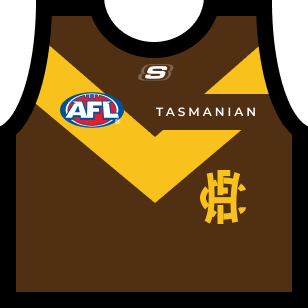
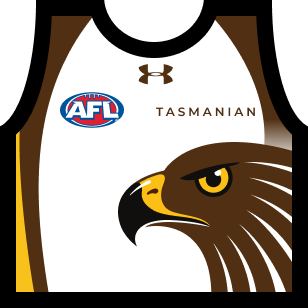
updated kits for 2026

diff --git a/docs/js/main.min.js b/docs/js/main.min.js
@@ -1,1 +1,1 @@
-function scroll(){$(window).on("scroll",function(){$(this).scrollTop()>=$(".c-fixture__round").offset().top-500?$(".js-scrollto-fixture").addClass("is-hidden"):$(".js-scrollto-fixture").removeClass("is-hidden")}),$(".js-scrollto-fixture").on("click",function(){$("html, body").animate({scrollTop:$(".js-game-pregame").offset().top-36},{duration:400,specialEasing:"easeInOut"})}),$(".c-fixture__game").each(function(){$(this).hasClass("c-fixture__game--in-progress")&&($(".js-scrollto-fixture").addClass("has-live"),$(".js-scrollto-fixture").on("click",function(){$("html, body").animate({scrollTop:$(".c-fixture__game--in-progress").offset().top-36},{duration:400,specialEasing:"easeInOut"})}))})}function dateTime(e){var t=new Date(e),s=t.getDate();return{day:function(e){var t=e.getDay();return 0==t?"Sunday":1==t?"Monday":2==t?"Tuesday":3==t?"Wednesday":4==t?"Thursday":5==t?"Friday":6==t?"Saturday":void 0}(t),month:function(e){var t=e.getMonth();return 0==t?"Jan":1==t?"Feb":2==t?"Mar":3==t?"Apr":4==t?"May":5==t?"Jun":6==t?"Jul":7==t?"Aug":8==t?"Sep":9==t?"Oct":10==t?"Nov":11==t?"Dec":void 0}(t),date:s,time:function(e){return e.getHours()+":"+("0"+e.getMinutes()).slice(-2)}(t)}}function finals(e,t){function s(e,s){var a=s.team_A,i=s.team_B,c=t[a.code],n=t[i.code],r=dateTime(s.match_start_date),d=e.children(".c-date"),o=e.children(".js-fixture-team-1"),l=e.children(".js-fixture-team-2"),_=e.children(".js-fixture-venue");"Pre Game"==s.match_status?(d.children(".c-date__day").text(r.day),d.children(".c-date__month").text(r.month),d.children(".c-date__date").text(r.date),d.children(".c-date__time").text(r.time)):"Full Time"==s.match_status?(e.addClass("full-time"),d.children(".c-date__day").text(r.day),d.children(".c-date__month").text(r.month),d.children(".c-date__date").text(r.date),d.children(".c-date__time").text("FT")):(e.addClass("live"),d.append('<span class="c-date__live">LIVE</span><span class="c-date__status">'+s.match_status+'</span><span class="c-date__played-time">'+s.match_time+"</span>")),o.children(".js-team-img").attr("src",c.kit.home),o.children(".js-team-text").text(c.name),"Pre Game"!==s.match_status&&o.children(".js-score-text").text("").append(a.goals+". "+a.behinds+'. <span class="c-fixture__score-total">'+a.score+"</span>"),null!==i.id&&(l.children(".js-team-img").attr("src",awayKit(n.kit,a.code)),l.children(".js-team-text").text(n.name)),"Pre Game"!==s.match_status&&l.children(".js-score-text").text("").append(i.goals+". "+i.behinds+'. <span class="c-fixture__score-total">'+i.score+"</span>"),_.text(s.venue.name)}function a(e,t){var s=e.team_A,a=e.team_B,i=t[s.code],c=t[a.code];return"post"==e.match_status_normalised&&s.score>a.score?{name:i.name,bg:i.pattern}:"post"==e.match_status_normalised&&a.score>s.score?{name:c.name,bg:c.pattern}:{name:"?"}}var i=e[8];$(".js-finals-series-year").text(e[0].season.year),$(".js-premiership-year").text(e[0].season.year),s($(".js-finals-qf1"),e[1]),s($(".js-finals-qf2"),e[2]),s($(".js-finals-ef1"),e[0]),s($(".js-finals-ef2"),e[3]),s($(".js-finals-sf1"),e[4]),s($(".js-finals-sf2"),e[5]),s($(".js-finals-pf1"),e[7]),s($(".js-finals-pf2"),e[6]),s($(".js-finals-gf"),i),$(".js-premiers-name").text(a(i,t).name),$(".js-premiers-bg").css({"background-image":"url("+a(i,t).bg+")","background-size":"50%","background-repeat":"repeat"})}function fixtureItem(e,t,s){var a=dateTime(e.match_start_date),i=e.match_status,c=e.team_A,n=e.team_B,r=t[c.code],d=t[n.code];"Pre Game"==i?$(".js-fixture .js-insert").before('<div class="c-fixture__game js-game-'+s+' js-game-pregame"><div class= "c-fixture__date c-date" ><span class="c-date__day">'+a.day+'</span><span class="c-date__month">'+a.month+'</span><span class="c-date__date">'+a.date+'</span><span class="c-date__time">'+a.time+'</span></div ><div class="c-fixture__team js-fixture-team-1"><img class="js-team-img" src="'+kitSwitcher(r.kit,c.code,n.code,c.code,s)+'" /><span class="js-team-text">'+r.name+'</span><span class="c-fixture__score js-score-text">-</span></div><div class="c-fixture__vs">vs</div><div class="c-fixture__team js-fixture-team-2"><img class="js-team-img" src="'+kitSwitcher(d.kit,n.code,n.code,c.code,s)+'" /><span class="js-team-text">'+d.name+'</span><span class="c-fixture__score js-score-text">-</span></div><div class="c-fixture__venue js-fixture-venue">'+e.venue.name+"</div></div>"):"Full Time"==i?$(".js-fixture .js-insert").before('<div class="c-fixture__game  js-game-'+s+' c-fixture__game--completed"><div class= "c-fixture__date c-date" ><span class="c-date__day">'+a.day+'</span><span class="c-date__month">'+a.month+'</span><span class="c-date__date">'+a.date+'</span><span class="c-date__time">FT</span></div ><div class="c-fixture__team js-fixture-team-1"><img class="js-team-img" src="'+r.kit.home+'" /><span class="js-team-text">'+r.name+'</span><span class="c-fixture__score js-score-text">'+c.goals+". "+c.behinds+'. <span class="c-fixture__score-total">'+c.score+'</span></span></div><div class="c-fixture__vs">vs</div><div class="c-fixture__team js-fixture-team-2"><img class="js-team-img" src="'+awayKit(d.kit,c.code)+'" /><span class="js-team-text">'+d.name+'</span><span class="c-fixture__score js-score-text">'+n.goals+". "+n.behinds+'. <span class="c-fixture__score-total">'+n.score+'</span></span></div><div class="c-fixture__venue js-fixture-venue">'+e.venue.name+"</div></div>"):$(".js-fixture .js-insert").before('<div class="c-fixture__game  js-game-'+s+' c-fixture__game--in-progress"><div class= "c-fixture__date c-date" ><span class="c-date__live">LIVE</span><span class="c-date__status">'+i+'</span><span class="c-date__time">'+e.match_time+'</span></div ><div class="c-fixture__team js-fixture-team-1"><img class="js-team-img" src="'+r.kit.home+'" /><span class="js-team-text">'+r.name+'</span><span class="c-fixture__score js-score-text">'+c.goals+". "+c.behinds+'. <span class="c-fixture__score-total">'+c.score+'</span></span></div><div class="c-fixture__vs">vs</div><div class="c-fixture__team js-fixture-team-2"><img class="js-team-img" src="'+awayKit(d.kit,c.code)+'" /><span class="js-team-text">'+d.name+'</span><span class="c-fixture__score js-score-text">'+n.goals+". "+n.behinds+'. <span class="c-fixture__score-total">'+n.score+'</span></span></div><div class="c-fixture__venue js-fixture-venue">'+e.venue.name+"</div></div>")}function kitSwitcher(e,t,s,a,i){return 14==i&"GEE"==t?e.special.wo:7==i?e.special.anzac:t==s?awayKit(e,a):e.home}function awayKit(e,t){return e.clash.teams.includes(t)?e.clash.kit:e.away}function ladderItem(e,t,s){$(".c-ladder__item-"+t+" div.c-ladder__team").children("span").text(s.name),$(".c-ladder__item-"+t+" div.c-ladder__team").children("img").attr("src",s.logo),$(".c-ladder__item-"+t+" div.c-ladder__played").text(e.stats.played),$(".c-ladder__item-"+t+" div.c-ladder__wins").text(e.stats.won),$(".c-ladder__item-"+t+" div.c-ladder__draws").text(e.stats.drawn),$(".c-ladder__item-"+t+" div.c-ladder__losses").text(e.stats.lost),$(".c-ladder__item-"+t+" div.c-ladder__points-for").text(e.stats.for),$(".c-ladder__item-"+t+" div.c-ladder__points-against").text(e.stats.against),$(".c-ladder__item-"+t+" div.c-ladder__percentage").text(e.stats.percentage),$(".c-ladder__item-"+t+" div.c-ladder__points").text(e.stats.points)}function roundCalc(e,t){for(i=0;i<t.length;i++){const s=t[i],a=new Date(s.start),c=new Date(s.end);if(a<e&&e<c)return s.round}}function dataFixture(e){$.getJSON("https://statsapi.foxsports.com.au/3.0/api/sports/afl/series/1/seasons/131/fixturesandresults.json?userkey=6B2F4717-A97C-49F6-8514-3600633439B9",function(t){$.getJSON("data/fixture.json",function(s){function a(e,t){var s=[];for(i=0;i<e.length;i++){const a=e[i];a.round.number==t&&(s.push(a),$(".js-fixture-round").text(a.round.name))}r(s,t)}function c(e){$(".js-game-"+e).remove()}function n(e,s){l=s,c(e),a(t,s)}function r(t,s){for(i=0;i<t.length;i++){fixtureItem(t[i],e,s)}}var d=new Date,o=roundCalc(d,s),l=o,_=$(".js-previous"),m=$(".js-next");a(t,o),_.on("click",function(){n(l,l-1)}),m.on("click",function(){n(l,l+1)})})})}function dataLadder(e){$.getJSON("https://statsapi.foxsports.com.au/3.0/api/sports/afl/series/1/seasons/131/ladder.json?userkey=6B2F4717-A97C-49F6-8514-3600633439B9",function(t){$(".c-ladder__round");for(i=0;i<t.teams.length;i++){const s=t.teams[i],a=e[s.code];ladderItem(s,i+1,a)}})}function data(){$.getJSON("data/clubs.json",function(e){dataLadder(e),dataFixture(e)})}function vertCenter(e,t){var s=e.parent().height();e.css({height:s+"px","line-height":s+"px"}),e.children(t).css({height:e.children(t).height(),"padding-top":(s-e.children(t).height())/2+"px","padding-bottom":(s-e.children(t).height())/2+"px"})}function clearStyles(e,t){e.attr("style",""),t.attr("style","")}data(),$(window).on("resize",function(){});
+function dateTime(e){var t=new Date(e),s=t.getDate();return{day:function(e){var t=e.getDay();return 0==t?"Sunday":1==t?"Monday":2==t?"Tuesday":3==t?"Wednesday":4==t?"Thursday":5==t?"Friday":6==t?"Saturday":void 0}(t),month:function(e){var t=e.getMonth();return 0==t?"Jan":1==t?"Feb":2==t?"Mar":3==t?"Apr":4==t?"May":5==t?"Jun":6==t?"Jul":7==t?"Aug":8==t?"Sep":9==t?"Oct":10==t?"Nov":11==t?"Dec":void 0}(t),date:s,time:function(e){return e.getHours()+":"+("0"+e.getMinutes()).slice(-2)}(t)}}function finals(e,t){function s(e,s){var a=s.team_A,i=s.team_B,c=t[a.code],n=t[i.code],r=dateTime(s.match_start_date),d=e.children(".c-date"),o=e.children(".js-fixture-team-1"),l=e.children(".js-fixture-team-2"),_=e.children(".js-fixture-venue");"Pre Game"==s.match_status?(d.children(".c-date__day").text(r.day),d.children(".c-date__month").text(r.month),d.children(".c-date__date").text(r.date),d.children(".c-date__time").text(r.time)):"Full Time"==s.match_status?(e.addClass("full-time"),d.children(".c-date__day").text(r.day),d.children(".c-date__month").text(r.month),d.children(".c-date__date").text(r.date),d.children(".c-date__time").text("FT")):(e.addClass("live"),d.append('<span class="c-date__live">LIVE</span><span class="c-date__status">'+s.match_status+'</span><span class="c-date__played-time">'+s.match_time+"</span>")),o.children(".js-team-img").attr("src",c.kit.home),o.children(".js-team-text").text(c.name),"Pre Game"!==s.match_status&&o.children(".js-score-text").text("").append(a.goals+". "+a.behinds+'. <span class="c-fixture__score-total">'+a.score+"</span>"),null!==i.id&&(l.children(".js-team-img").attr("src",awayKit(n.kit,a.code)),l.children(".js-team-text").text(n.name)),"Pre Game"!==s.match_status&&l.children(".js-score-text").text("").append(i.goals+". "+i.behinds+'. <span class="c-fixture__score-total">'+i.score+"</span>"),_.text(s.venue.name)}function a(e,t){var s=e.team_A,a=e.team_B,i=t[s.code],c=t[a.code];return"post"==e.match_status_normalised&&s.score>a.score?{name:i.name,bg:i.pattern}:"post"==e.match_status_normalised&&a.score>s.score?{name:c.name,bg:c.pattern}:{name:"?"}}var i=e[8];$(".js-finals-series-year").text(e[0].season.year),$(".js-premiership-year").text(e[0].season.year),s($(".js-finals-qf1"),e[1]),s($(".js-finals-qf2"),e[2]),s($(".js-finals-ef1"),e[0]),s($(".js-finals-ef2"),e[3]),s($(".js-finals-sf1"),e[4]),s($(".js-finals-sf2"),e[5]),s($(".js-finals-pf1"),e[7]),s($(".js-finals-pf2"),e[6]),s($(".js-finals-gf"),i),$(".js-premiers-name").text(a(i,t).name),$(".js-premiers-bg").css({"background-image":"url("+a(i,t).bg+")","background-size":"50%","background-repeat":"repeat"})}function fixtureItem(e,t,s){var a=dateTime(e.match_start_date),i=e.match_status,c=e.team_A,n=e.team_B,r=t[c.code],d=t[n.code];"Pre Game"==i?$(".js-fixture .js-insert").before('<div class="c-fixture__game js-game-'+s+' js-game-pregame"><div class= "c-fixture__date c-date" ><span class="c-date__day">'+a.day+'</span><span class="c-date__month">'+a.month+'</span><span class="c-date__date">'+a.date+'</span><span class="c-date__time">'+a.time+'</span></div ><div class="c-fixture__team js-fixture-team-1"><img class="js-team-img" src="'+kitSwitcher(r.kit,c.code,n.code,c.code,s)+'" /><span class="js-team-text">'+r.name+'</span><span class="c-fixture__score js-score-text">-</span></div><div class="c-fixture__vs">vs</div><div class="c-fixture__team js-fixture-team-2"><img class="js-team-img" src="'+kitSwitcher(d.kit,n.code,n.code,c.code,s)+'" /><span class="js-team-text">'+d.name+'</span><span class="c-fixture__score js-score-text">-</span></div><div class="c-fixture__venue js-fixture-venue">'+e.venue.name+"</div></div>"):"Full Time"==i?$(".js-fixture .js-insert").before('<div class="c-fixture__game  js-game-'+s+' c-fixture__game--completed"><div class= "c-fixture__date c-date" ><span class="c-date__day">'+a.day+'</span><span class="c-date__month">'+a.month+'</span><span class="c-date__date">'+a.date+'</span><span class="c-date__time">FT</span></div ><div class="c-fixture__team js-fixture-team-1"><img class="js-team-img" src="'+r.kit.home+'" /><span class="js-team-text">'+r.name+'</span><span class="c-fixture__score js-score-text">'+c.goals+". "+c.behinds+'. <span class="c-fixture__score-total">'+c.score+'</span></span></div><div class="c-fixture__vs">vs</div><div class="c-fixture__team js-fixture-team-2"><img class="js-team-img" src="'+awayKit(d.kit,c.code)+'" /><span class="js-team-text">'+d.name+'</span><span class="c-fixture__score js-score-text">'+n.goals+". "+n.behinds+'. <span class="c-fixture__score-total">'+n.score+'</span></span></div><div class="c-fixture__venue js-fixture-venue">'+e.venue.name+"</div></div>"):$(".js-fixture .js-insert").before('<div class="c-fixture__game  js-game-'+s+' c-fixture__game--in-progress"><div class= "c-fixture__date c-date" ><span class="c-date__live">LIVE</span><span class="c-date__status">'+i+'</span><span class="c-date__time">'+e.match_time+'</span></div ><div class="c-fixture__team js-fixture-team-1"><img class="js-team-img" src="'+r.kit.home+'" /><span class="js-team-text">'+r.name+'</span><span class="c-fixture__score js-score-text">'+c.goals+". "+c.behinds+'. <span class="c-fixture__score-total">'+c.score+'</span></span></div><div class="c-fixture__vs">vs</div><div class="c-fixture__team js-fixture-team-2"><img class="js-team-img" src="'+awayKit(d.kit,c.code)+'" /><span class="js-team-text">'+d.name+'</span><span class="c-fixture__score js-score-text">'+n.goals+". "+n.behinds+'. <span class="c-fixture__score-total">'+n.score+'</span></span></div><div class="c-fixture__venue js-fixture-venue">'+e.venue.name+"</div></div>")}function kitSwitcher(e,t,s,a,i){return 14==i&"GEE"==t?e.special.wo:7==i?e.special.anzac:t==s?awayKit(e,a):e.home}function awayKit(e,t){return e.clash.teams.includes(t)?e.clash.kit:e.away}function ladderItem(e,t,s){$(".c-ladder__item-"+t+" div.c-ladder__team").children("span").text(s.name),$(".c-ladder__item-"+t+" div.c-ladder__team").children("img").attr("src",s.logo),$(".c-ladder__item-"+t+" div.c-ladder__played").text(e.stats.played),$(".c-ladder__item-"+t+" div.c-ladder__wins").text(e.stats.won),$(".c-ladder__item-"+t+" div.c-ladder__draws").text(e.stats.drawn),$(".c-ladder__item-"+t+" div.c-ladder__losses").text(e.stats.lost),$(".c-ladder__item-"+t+" div.c-ladder__points-for").text(e.stats.for),$(".c-ladder__item-"+t+" div.c-ladder__points-against").text(e.stats.against),$(".c-ladder__item-"+t+" div.c-ladder__percentage").text(e.stats.percentage),$(".c-ladder__item-"+t+" div.c-ladder__points").text(e.stats.points)}function roundCalc(e,t){for(i=0;i<t.length;i++){const s=t[i],a=new Date(s.start),c=new Date(s.end);if(a<e&&e<c)return s.round}}function scroll(){$(window).on("scroll",function(){$(this).scrollTop()>=$(".c-fixture__round").offset().top-500?$(".js-scrollto-fixture").addClass("is-hidden"):$(".js-scrollto-fixture").removeClass("is-hidden")}),$(".js-scrollto-fixture").on("click",function(){$("html, body").animate({scrollTop:$(".js-game-pregame").offset().top-36},{duration:400,specialEasing:"easeInOut"})}),$(".c-fixture__game").each(function(){$(this).hasClass("c-fixture__game--in-progress")&&($(".js-scrollto-fixture").addClass("has-live"),$(".js-scrollto-fixture").on("click",function(){$("html, body").animate({scrollTop:$(".c-fixture__game--in-progress").offset().top-36},{duration:400,specialEasing:"easeInOut"})}))})}function dataFixture(e){$.getJSON("https://statsapi.foxsports.com.au/3.0/api/sports/afl/series/1/seasons/131/fixturesandresults.json?userkey=6B2F4717-A97C-49F6-8514-3600633439B9",function(t){$.getJSON("data/fixture.json",function(s){function a(e,t){var s=[];for(i=0;i<e.length;i++){const a=e[i];a.round.number==t&&(s.push(a),$(".js-fixture-round").text(a.round.name))}r(s,t)}function c(e){$(".js-game-"+e).remove()}function n(e,s){l=s,c(e),a(t,s)}function r(t,s){for(i=0;i<t.length;i++){fixtureItem(t[i],e,s)}}var d=new Date,o=roundCalc(d,s),l=o,_=$(".js-previous"),m=$(".js-next");a(t,o),_.on("click",function(){n(l,l-1)}),m.on("click",function(){n(l,l+1)})})})}function dataLadder(e){$.getJSON("https://statsapi.foxsports.com.au/3.0/api/sports/afl/series/1/seasons/131/ladder.json?userkey=6B2F4717-A97C-49F6-8514-3600633439B9",function(t){$(".c-ladder__round");for(i=0;i<t.teams.length;i++){const s=t.teams[i],a=e[s.code];ladderItem(s,i+1,a)}})}function data(){$.getJSON("data/clubs.json",function(e){dataLadder(e),dataFixture(e)})}function vertCenter(e,t){var s=e.parent().height();e.css({height:s+"px","line-height":s+"px"}),e.children(t).css({height:e.children(t).height(),"padding-top":(s-e.children(t).height())/2+"px","padding-bottom":(s-e.children(t).height())/2+"px"})}function clearStyles(e,t){e.attr("style",""),t.attr("style","")}data(),$(window).on("resize",function(){});

diff --git a/app/js/main.js b/app/js/main.js
@@ -4,42 +4,6 @@
 
 // Core Functions 
 data();
-function scroll() {
-   $(window).on('scroll', function(){
-      if ($(this).scrollTop() >= $('.c-fixture__round').offset().top - 500){
-         $('.js-scrollto-fixture').addClass('is-hidden');
-      } else {
-         $('.js-scrollto-fixture').removeClass('is-hidden');
-      }
-   });
-
-   $('.js-scrollto-fixture').on('click', function(){
-      $('html, body').animate(
-         {
-            scrollTop: $('.js-game-pregame').offset().top - 36,
-         }, {
-            duration: 400,
-            specialEasing: 'easeInOut'
-         }
-      )
-   });
-
-   $('.c-fixture__game').each(function(){
-      if ($(this).hasClass('c-fixture__game--in-progress')){
-         $('.js-scrollto-fixture').addClass('has-live');
-         $('.js-scrollto-fixture').on('click', function(){
-            $('html, body').animate(
-               {
-                  scrollTop: $('.c-fixture__game--in-progress').offset().top - 36,
-               }, {
-                  duration: 400,
-                  specialEasing: 'easeInOut'
-               }
-            )
-         });
-      }
-   });
-}
 
 function dateTime(d) {
 
@@ -365,6 +329,42 @@ function roundCalc(target_date, round_data) {
             return round.round;
         } 
     }
+}
+function scroll() {
+   $(window).on('scroll', function(){
+      if ($(this).scrollTop() >= $('.c-fixture__round').offset().top - 500){
+         $('.js-scrollto-fixture').addClass('is-hidden');
+      } else {
+         $('.js-scrollto-fixture').removeClass('is-hidden');
+      }
+   });
+
+   $('.js-scrollto-fixture').on('click', function(){
+      $('html, body').animate(
+         {
+            scrollTop: $('.js-game-pregame').offset().top - 36,
+         }, {
+            duration: 400,
+            specialEasing: 'easeInOut'
+         }
+      )
+   });
+
+   $('.c-fixture__game').each(function(){
+      if ($(this).hasClass('c-fixture__game--in-progress')){
+         $('.js-scrollto-fixture').addClass('has-live');
+         $('.js-scrollto-fixture').on('click', function(){
+            $('html, body').animate(
+               {
+                  scrollTop: $('.c-fixture__game--in-progress').offset().top - 36,
+               }, {
+                  duration: 400,
+                  specialEasing: 'easeInOut'
+               }
+            )
+         });
+      }
+   });
 }
 
 // Data - Fixture/Results
